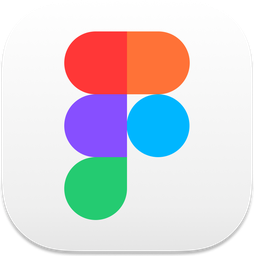
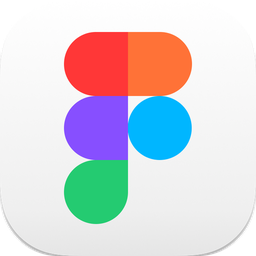
Stack : icônes sans cadre, même taille et même forme, ombre portée
Claude-Session: https://claude.ai/code/session_0146Ahif6war1p8s7ctFtwsu

diff --git a/src/styles/global.css b/src/styles/global.css
@@ -147,11 +147,11 @@ html:not(.js).screens, html:not(.js).screens body { height: auto; overflow: visi
 /* vignettes dans le texte d'affiche */
 .vi { display: inline-block; position: relative; width: 96px; height: 54px; margin: 0 .08em; vertical-align: -0.08em; background: #c9c9c9 center / cover no-repeat; }
 .vi i { position: absolute; left: 4px; bottom: 2px; font: 9px/10px var(--mono); text-transform: lowercase; color: #fff; font-style: normal; }
-/* vignette-logo (stack) : fond clair, logo contenu au centre ; le nom reste dessous si le fichier manque */
-.vi.lg { background: #fff; box-shadow: inset 0 0 0 1px var(--ln); }
-.vi.lg img { position: absolute; inset: 0; width: 100%; height: 100%; padding: 5px; object-fit: contain; background: #fff; } /* l'icône couvre le nom de secours */
-.vi.lg i { color: var(--mu); }
-@media (max-width: 760px) { .vi { width: 46px; height: 26px; } .vi.lg img { padding: 2px; } }
+/* vignette-logo (stack) : l'icône seule, sans cadre ni fond, carrée, toutes à la même taille, avec une ombre portée */
+.vi.lg { width: .95em; height: .95em; margin: 0 .1em; vertical-align: -0.14em; background: none; box-shadow: none; }
+.vi.lg i { display: none; }
+.vi.lg img { position: absolute; inset: 0; width: 100%; height: 100%; object-fit: contain; filter: drop-shadow(0 .06em .08em rgba(0, 0, 0, .22)) drop-shadow(0 .01em .015em rgba(0, 0, 0, .18)); }
+@media (max-width: 760px) { .vi { width: 46px; height: 26px; } .vi.lg { width: .95em; height: .95em; } }
 
 /* emplacement d'image à venir */
 .ph { position: relative; background: #c9c9c9; }
